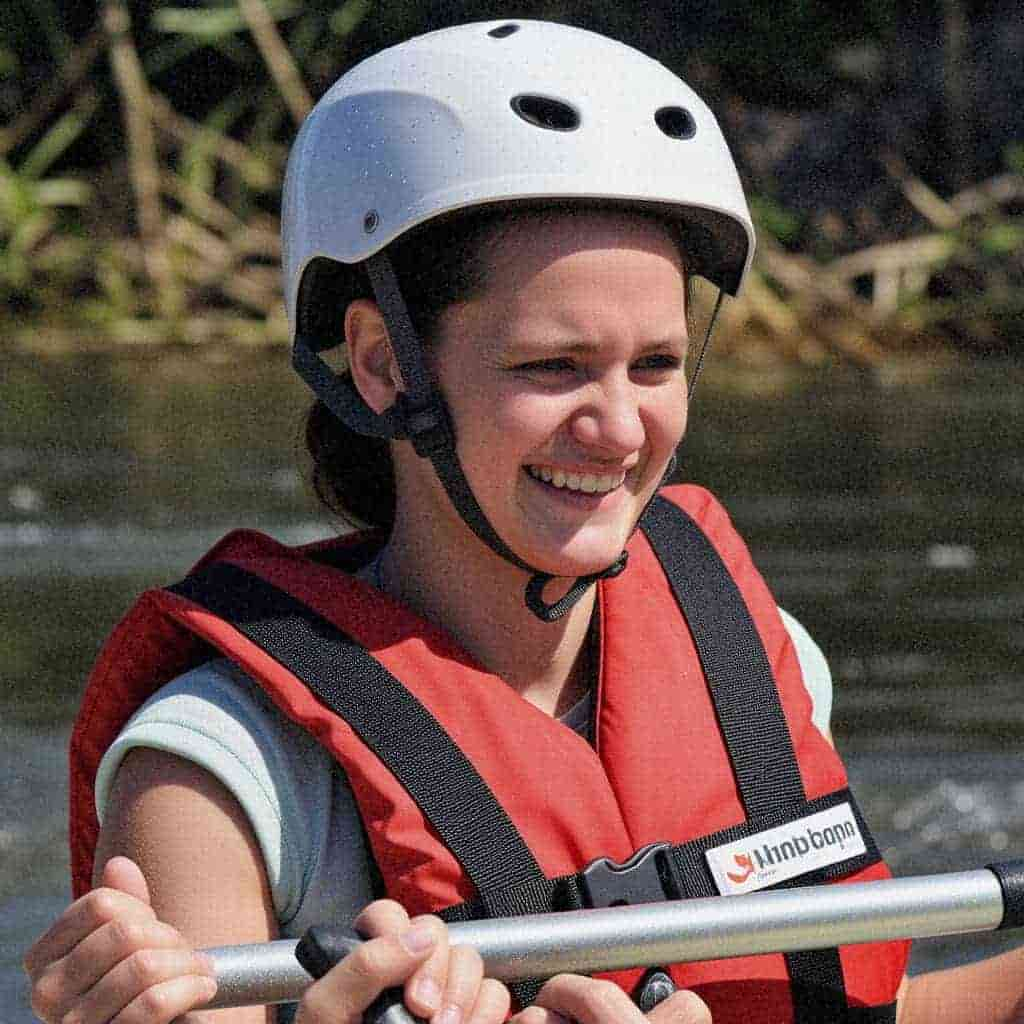
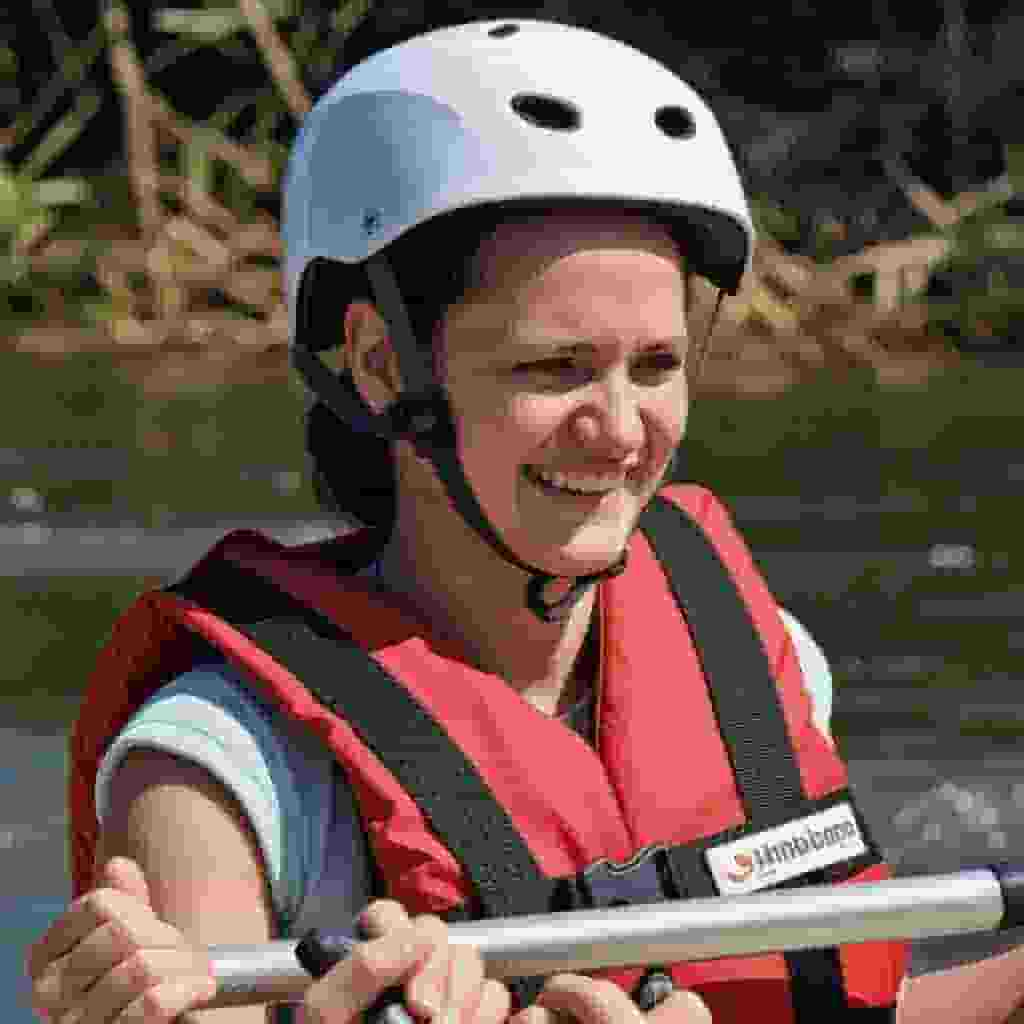
wdd130 week 06 Rafting Site Final Submittal

diff --git a/wwr/index.html b/wwr/index.html
@@ -73,7 +73,7 @@
       <div class="grid-2x1">
         <!-- BOX 1 -->
         <aside class="box2">
-          <img src="images/guide-graphic.png"
+          <img src="images/guide-led.jpg"
             alt="Graphic of waves in background, helmets, safety vests and first-aid symbol.">
           <p>Our guides love what they do and have collectively over 100 seasons of rafting
             experience. They know the river and the banks. They know how to best keep rafters out of
@@ -82,7 +82,7 @@
         </aside>
         <!-- BOX 2-->
         <aside class="box2">
-          <img src="images/safety-graphic.png"
+          <img src="images/safety-gear.jpg"
             alt="Graphic of waves in background, helmets, safety vests and first-aid symbol.">
           <p>Not only do we guide you to and through a tour that matches your skills and abilities,
             we also ensure you have safety instructions, gear, and rafting guides certified in first

diff --git a/wwr/styles/rafting.css b/wwr/styles/rafting.css
@@ -340,8 +340,8 @@ footer nav {
 }
 
 .contact-header {
- top: 50%;
- transform: translateY(-50%);
+  top: 50%;
+  transform: translateY(-50%);
 }
 
 .inset {
@@ -431,6 +431,11 @@ img {
 
 .box2 p {
   text-align: left;
+}
+
+.box2 img {
+  height: 300px;
+  width: auto;
 }
 
 /* #3 REQUIREMENT FOR TRIPS PAGE */
